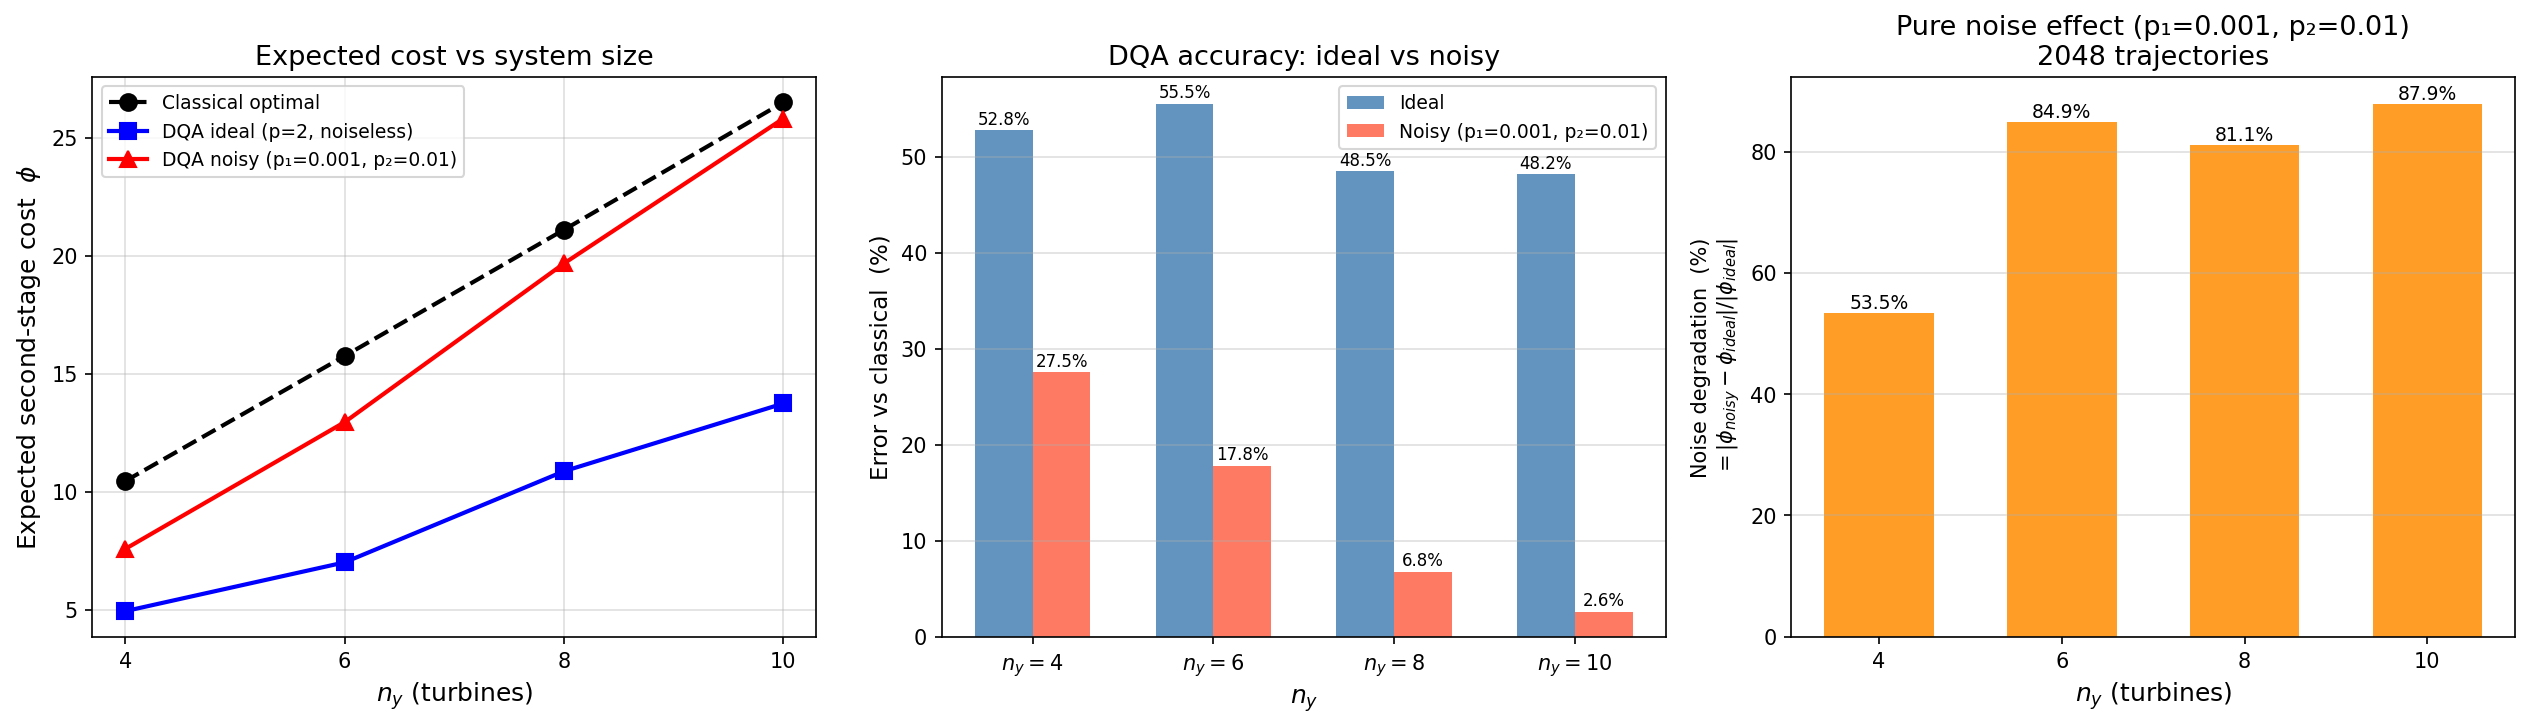
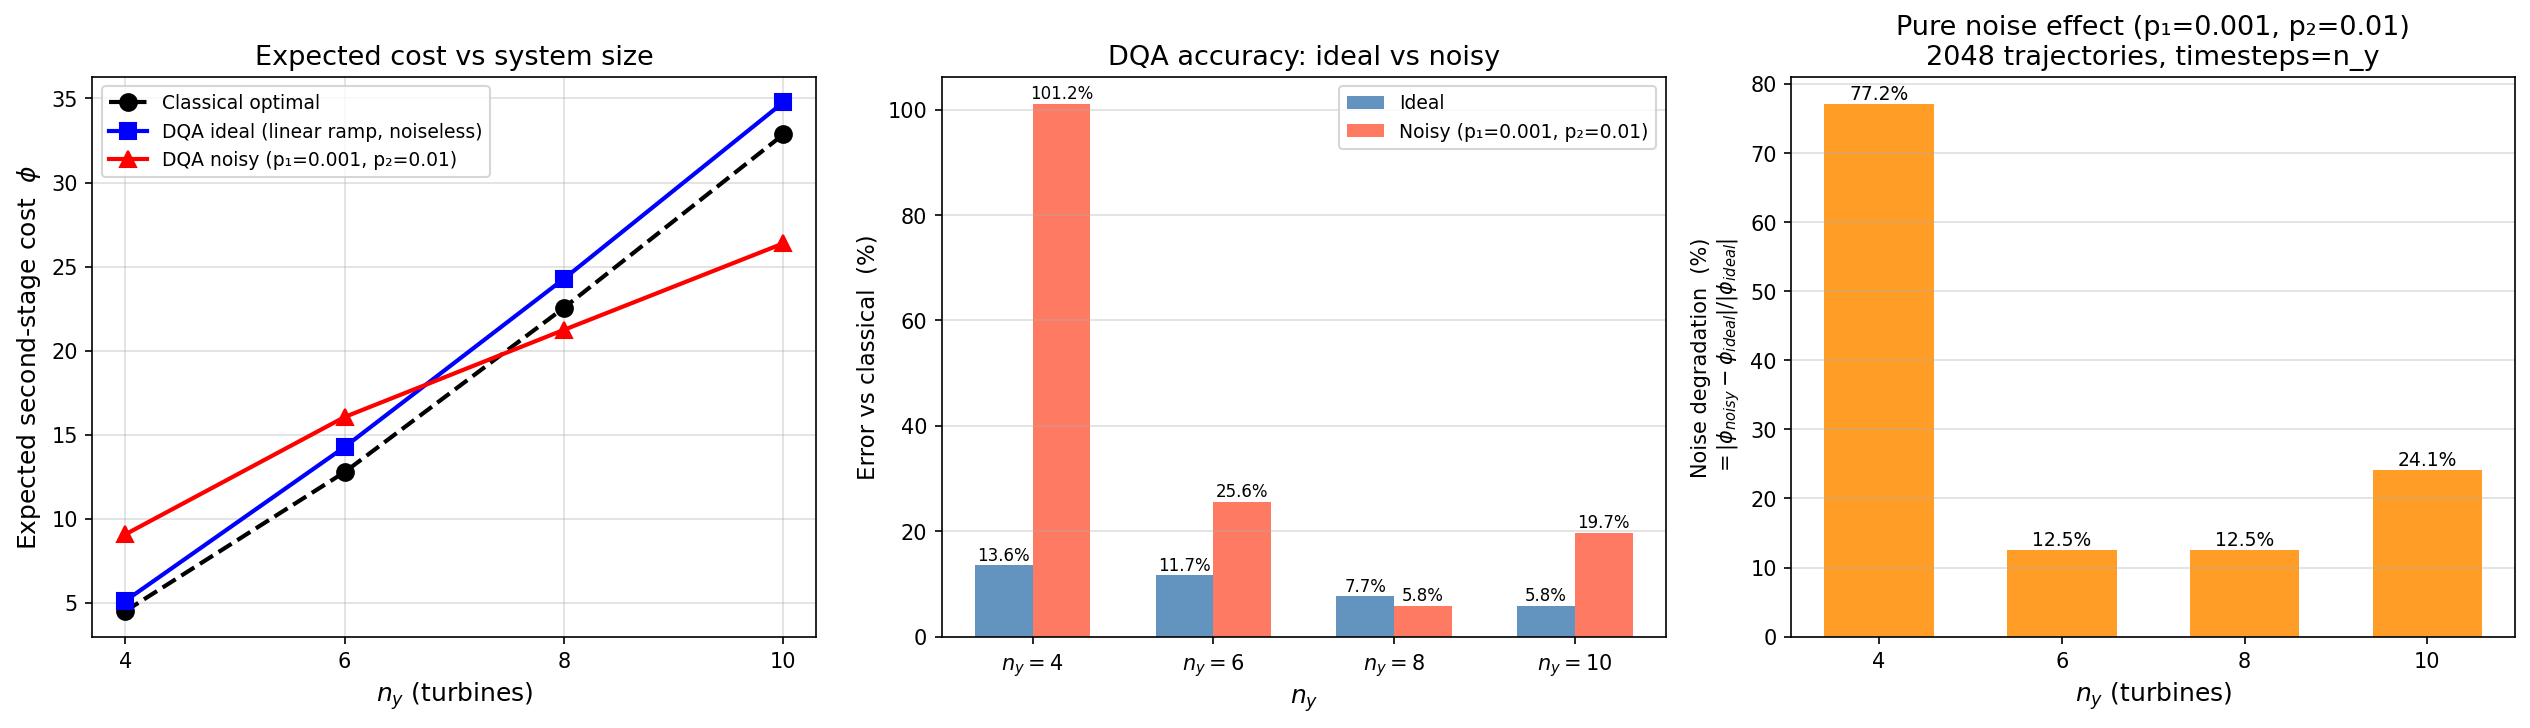
noise study: fix params to match cuda_q_script.py (linspace c_y, w_d=n_y-2, timesteps=n_y, BNO classical ref, sv eval)

diff --git a/qiskit_impl/run_noise_study.py b/qiskit_impl/run_noise_study.py
@@ -1,13 +1,15 @@
 """
 Noise study: DQA accuracy (ideal vs depolarizing) for n_y in {4, 6, 8, 10}.
 
-Key design choices
-------------------
-* COBYLA uses estimate_expected_value_observe() — a single cudaq.observe() GPU
-  call that computes <psi|H|psi> as a tensor contraction.  No Python loop over
-  2^(2*n_y) states — O(1) GPU calls vs O(2^(2*n_y)) Python iterations.
-* P_LAYERS=2 (p=2 DQA layers, 4 parameters) — COBYLA-friendly regardless of n_y.
-* Reports both error-vs-classical and pure noise degradation.
+Mirrors cuda_q_script.py exactly:
+  c_y        = np.linspace(0.1, 1.0, n_y)
+  w_d        = n_y - 2  (x0=[2], d=n_y)
+  timesteps  = n_y      (2*n_y DQA parameters)
+  theta0     = linear ramp (same formula as cuda_q_script.py)
+  USE_COBYLA = False     (linear ramp without optimisation, matching reference)
+  classical  = BinaryNestedOptimizer.brute_force_wind_demand_expectation_values()
+  ideal eval = estimate_expected_value_sv(Theta, w_d)
+  noisy eval = estimate_expected_value_noisy_trajectory(Theta, N_TRAJ)
 
 Run with:
   /kfs3/scratch/nsawant/qiskit_env/bin/python run_noise_study.py 2>&1 | tee /tmp/noise_study.log
@@ -29,6 +31,7 @@ from scipy.optimize import minimize
 
 import cudaq
 from cudaq_impl import CudaqQAEOptimizer, build_depolarizing_noise_model
+from binary_optimizer import BinaryNestedOptimizer
 
 cudaq.set_target('nvidia')
 print(f'CUDA-Q  target : {cudaq.get_target().name}')
@@ -40,74 +43,82 @@ N_TRAJ  = 2048
 noise_model = build_depolarizing_noise_model(p1=P1, p2=P2)
 print(f'Noise model    : p1={P1}, p2={P2}, trajectories={N_TRAJ}\n')
 
-# ── PROBLEM CONFIGS ───────────────────────────────────────────────────────────
-_BASE_CY = [0.4, 0.5, 0.6, 0.7, 0.8, 1.0, 1.2, 1.4, 1.6, 1.8]
+USE_COBYLA = False   # False = linear ramp (matches cuda_q_script.py default)
+
+# ── PROBLEM CONFIGS (identical to cuda_q_script.py) ──────────────────────────
+# c_y = linspace(0.1, 1.0, n_y), x0=[2], w_d=n_y-2, timesteps=n_y
 N_Y_LIST = [4, 6, 8, 10]
-P_LAYERS = 2       # fixed DQA depth: 4 parameters always
 C_R      = 10.0
+C_X      = [3.]
 
 CONFIGS = {}
 for ny in N_Y_LIST:
-    w  = ny // 2
-    cy = _BASE_CY[:ny]
-    cost_norm = w * C_R / ny
-    # adiabatic warm-start angles
-    theta0 = []
-    for t in range(P_LAYERS):
-        s = (t + 1) / P_LAYERS
-        theta0 += [s * math.pi / 4, (1 - s) * math.pi / 4]
-    CONFIGS[ny] = dict(n_y=ny, w_d=w, c_y=cy, c_r=C_R,
-                       cost_norm=cost_norm, theta0=theta0)
-    print(f'  n_y={ny:2d}  w_d={w}  cost_norm={cost_norm:.2f}  '
-          f'#params={len(theta0)}  c_y={[round(c,2) for c in cy]}')
+    c_y       = list(np.linspace(0.1, 1.0, ny))
+    w_d       = ny - 2              # x0=[2], d=n_y
+    cost_norm = w_d * C_R / ny
+    timesteps = ny
+    theta0    = []
+    for t in range(timesteps):
+        theta0.append(float(t / timesteps))
+        theta0.append((1 - float(t / timesteps)) / math.pi)
+    # uniform pdf over all xi
+    pdf = {tuple(int(v) for v in f'{i:0{ny}b}'): 1/2**ny
+           for i in range(2**ny)}
+    CONFIGS[ny] = dict(n_y=ny, w_d=w_d, c_y=c_y, c_r=C_R,
+                       cost_norm=cost_norm, timesteps=timesteps,
+                       theta0=theta0, pdf=pdf)
+    print(f'  n_y={ny:2d}  w_d={w_d}  cost_norm={cost_norm:.4f}  '
+          f'#params={len(theta0)}  c_y={[round(c,3) for c in c_y]}')
 
-# ── CLASSICAL REFERENCE ─────────────────────────────────────────────────────
-# Brute-force E[Q] with optimal y* (commit w cheapest turbines) over uniform xi
-print('\n── Classical brute-force E[Q] ──')
+# ── CLASSICAL REFERENCE (matches cuda_q_script.py) ──────────────────────────
+# Uses BinaryNestedOptimizer.brute_force_wind_demand_expectation_values(), the
+# same source of truth as cuda_q_script.py.
+print('\n── Classical reference (BinaryNestedOptimizer) ──')
 classical_phi = {}
 for ny, cfg in CONFIGS.items():
-    cy, cr, w = cfg['c_y'], cfg['c_r'], cfg['w_d']
-    y_star = [0] * ny
-    for j in sorted(range(ny), key=lambda j: cy[j])[:w]:
-        y_star[j] = 1
-    total = 0.0
-    for xi_int in range(2 ** ny):
-        for j in range(ny):
-            if y_star[j]:
-                total += cy[j] if (xi_int >> j) & 1 else cr
-    classical_phi[ny] = total / (2 ** ny)
-    print(f'  n_y={ny}  y*={y_star}  φ_classical={classical_phi[ny]:.4f}')
+    bno = BinaryNestedOptimizer(C_X, cfg['c_y'], C_R, cfg['pdf'],
+                                ny, is_uniform=True)
+    exp_vals = bno.brute_force_wind_demand_expectation_values()
+    classical_phi[ny] = exp_vals[cfg['w_d']]
+    print(f'  n_y={ny:2d}  w_d={cfg["w_d"]}  φ_classical={classical_phi[ny]:.4f}')
 
-# ── COBYLA WITH cudaq.observe() — O(1) GPU calls per iteration ───────────────
-# estimate_expected_value_observe uses cudaq.observe() to compute <psi|H|psi>
-# as a single tensor contraction on the GPU.  No Python loop over 2^(2*n_y)
-# states.  For n_y=10 this is ~10000x faster than estimate_expected_value_sv.
-print('\n── COBYLA optimisation using cudaq.observe() ──')
+# ── DQA ANGLES: linear ramp or COBYLA (matches cuda_q_script.py) ─────────────
+# Reference default: USE_COBYLA=False — just the linear ramp.
+# When USE_COBYLA=True, uses estimate_expected_value_sv(Theta, w_d) exactly
+# as cuda_q_script.py does (not observe — that gives different semantics).
+if USE_COBYLA:
+    print('\n── COBYLA optimisation using estimate_expected_value_sv ──')
+else:
+    print('\n── Using linear ramp (USE_COBYLA=False, matching cuda_q_script.py) ──')
+
 optimized_thetas = {}
-cobyla_phi = {}
 for ny, cfg in CONFIGS.items():
-    print(f'\n  n_y={ny}  ({len(cfg["theta0"])} params)...', flush=True)
-    opt = CudaqQAEOptimizer(
-        c_x=[3.]*ny, c_y=cfg['c_y'], c_r=cfg['c_r'],
-        n_y=ny, w_d=cfg['w_d'], cost_norm=cfg['cost_norm'],
-        noise_model=None,
-    )
-    calls = [0]
-    def _obj(th, _opt=opt):
-        calls[0] += 1
-        return _opt.estimate_expected_value_observe(th.tolist())  # single GPU call
-
-    t0  = time.perf_counter()
-    res = minimize(_obj, cfg['theta0'], method='COBYLA',
-                   options={'maxiter': 1000, 'rhobeg': 0.3, 'catol': 1e-5})
-    dt  = time.perf_counter() - t0
-    optimized_thetas[ny] = res.x.tolist()
-    cobyla_phi[ny] = res.fun
-    err = abs(res.fun - classical_phi[ny]) / classical_phi[ny] * 100
-    print(f'  φ_DQA={res.fun:.4f}  φ_class={classical_phi[ny]:.4f}  '
-          f'err={err:.2f}%  evals={calls[0]}  t={dt:.1f}s')
+    if USE_COBYLA:
+        print(f'\n  n_y={ny}  ({len(cfg["theta0"])} params)...', flush=True)
+        opt = CudaqQAEOptimizer(
+            c_x=C_X, c_y=cfg['c_y'], c_r=cfg['c_r'],
+            n_y=ny, w_d=cfg['w_d'], cost_norm=cfg['cost_norm'],
+            noise_model=None)
+        calls = [0]
+        def _obj(th, _opt=opt, _wd=cfg['w_d']):
+            calls[0] += 1
+            return _opt.estimate_expected_value_sv(th.tolist(), _wd)
+        t0  = time.perf_counter()
+        res = minimize(_obj, cfg['theta0'], method='COBYLA',
+                       options={'maxiter': 500, 'rhobeg': 0.5, 'disp': False})
+        dt  = time.perf_counter() - t0
+        optimized_thetas[ny] = res.x.tolist()
+        err = abs(res.fun - classical_phi[ny]) / classical_phi[ny] * 100
+        print(f'  φ_DQA={res.fun:.4f}  φ_class={classical_phi[ny]:.4f}  '
+              f'err={err:.2f}%  evals={calls[0]}  t={dt:.1f}s')
+    else:
+        optimized_thetas[ny] = cfg['theta0']
+        print(f'  n_y={ny:2d}  linear ramp  #params={len(cfg["theta0"])}')
 
 # ── FINAL EVALUATION: ideal vs noisy ────────────────────────────────────────
+# Ideal: estimate_expected_value_sv(Theta, w_d)  — exact statevector, same as
+#        the reference notebook's DQA evaluation cell.
+# Noisy: estimate_expected_value_noisy_trajectory — trajectory MC with noise.
 print('\n── Final evaluation: ideal vs noisy ──')
 results_ideal, results_noisy = {}, {}
 for ny, thetas in optimized_thetas.items():
@@ -115,15 +126,15 @@ for ny, thetas in optimized_thetas.items():
     print(f'\n  n_y={ny}...', flush=True)
 
     opt_i = CudaqQAEOptimizer(
-        c_x=[3.]*ny, c_y=cfg['c_y'], c_r=cfg['c_r'],
+        c_x=C_X, c_y=cfg['c_y'], c_r=cfg['c_r'],
         n_y=ny, w_d=cfg['w_d'], cost_norm=cfg['cost_norm'], noise_model=None)
     t0    = time.perf_counter()
-    phi_i = opt_i.estimate_expected_value_observe(thetas)
+    phi_i = opt_i.estimate_expected_value_sv(thetas, cfg['w_d'])
     dt_i  = time.perf_counter() - t0
     results_ideal[ny] = phi_i
 
     opt_n = CudaqQAEOptimizer(
-        c_x=[3.]*ny, c_y=cfg['c_y'], c_r=cfg['c_r'],
+        c_x=C_X, c_y=cfg['c_y'], c_r=cfg['c_r'],
         n_y=ny, w_d=cfg['w_d'], cost_norm=cfg['cost_norm'], noise_model=noise_model)
     t0    = time.perf_counter()
     phi_n = opt_n.estimate_expected_value_noisy_trajectory(thetas, N_TRAJ)
@@ -150,7 +161,7 @@ fig, axes = plt.subplots(1, 3, figsize=(17, 5))
 # Left: absolute phi values
 ax = axes[0]
 ax.plot(ny_vals, ref_v, 'k--o', lw=2, ms=8, label='Classical optimal')
-ax.plot(ny_vals, phi_i, 'b-s',  lw=2, ms=8, label='DQA ideal (p=2, noiseless)')
+ax.plot(ny_vals, phi_i, 'b-s',  lw=2, ms=8, label='DQA ideal (linear ramp, noiseless)')
 ax.plot(ny_vals, phi_n, 'r-^',  lw=2, ms=8, label=f'DQA noisy (p₁={P1}, p₂={P2})')
 ax.set_xlabel('$n_y$ (turbines)', fontsize=12)
 ax.set_ylabel('Expected second-stage cost  $\\phi$', fontsize=12)
@@ -178,7 +189,7 @@ for rect, val in zip(bars, deg):
             f'{val:.1f}%', ha='center', va='bottom', fontsize=9)
 ax.set_xlabel('$n_y$ (turbines)', fontsize=12)
 ax.set_ylabel('Noise degradation  (%)\n$= |\\phi_{noisy}-\\phi_{ideal}|/|\\phi_{ideal}|$', fontsize=10)
-ax.set_title(f'Pure noise effect (p₁={P1}, p₂={P2})\n{N_TRAJ} trajectories', fontsize=13)
+ax.set_title(f'Pure noise effect (p₁={P1}, p₂={P2})\n{N_TRAJ} trajectories, timesteps=n_y', fontsize=13)
 ax.set_xticks(ny_vals); ax.grid(True, axis='y', alpha=0.4)
 
 plt.tight_layout()
@@ -202,6 +213,7 @@ out_json = os.path.join(_QISKIT_IMPL, 'noise_study_results.json')
 json.dump({str(ny): {
     'classical': classical_phi[ny], 'ideal': results_ideal[ny],
     'noisy': results_noisy[ny], 'thetas': optimized_thetas[ny],
-    'p_layers': P_LAYERS, 'p1': P1, 'p2': P2, 'n_traj': N_TRAJ,
+    'timesteps': CONFIGS[ny]['timesteps'], 'use_cobyla': USE_COBYLA,
+    'p1': P1, 'p2': P2, 'n_traj': N_TRAJ,
 } for ny in ny_vals}, open(out_json,'w'), indent=2)
 print(f'Results saved → {out_json}')